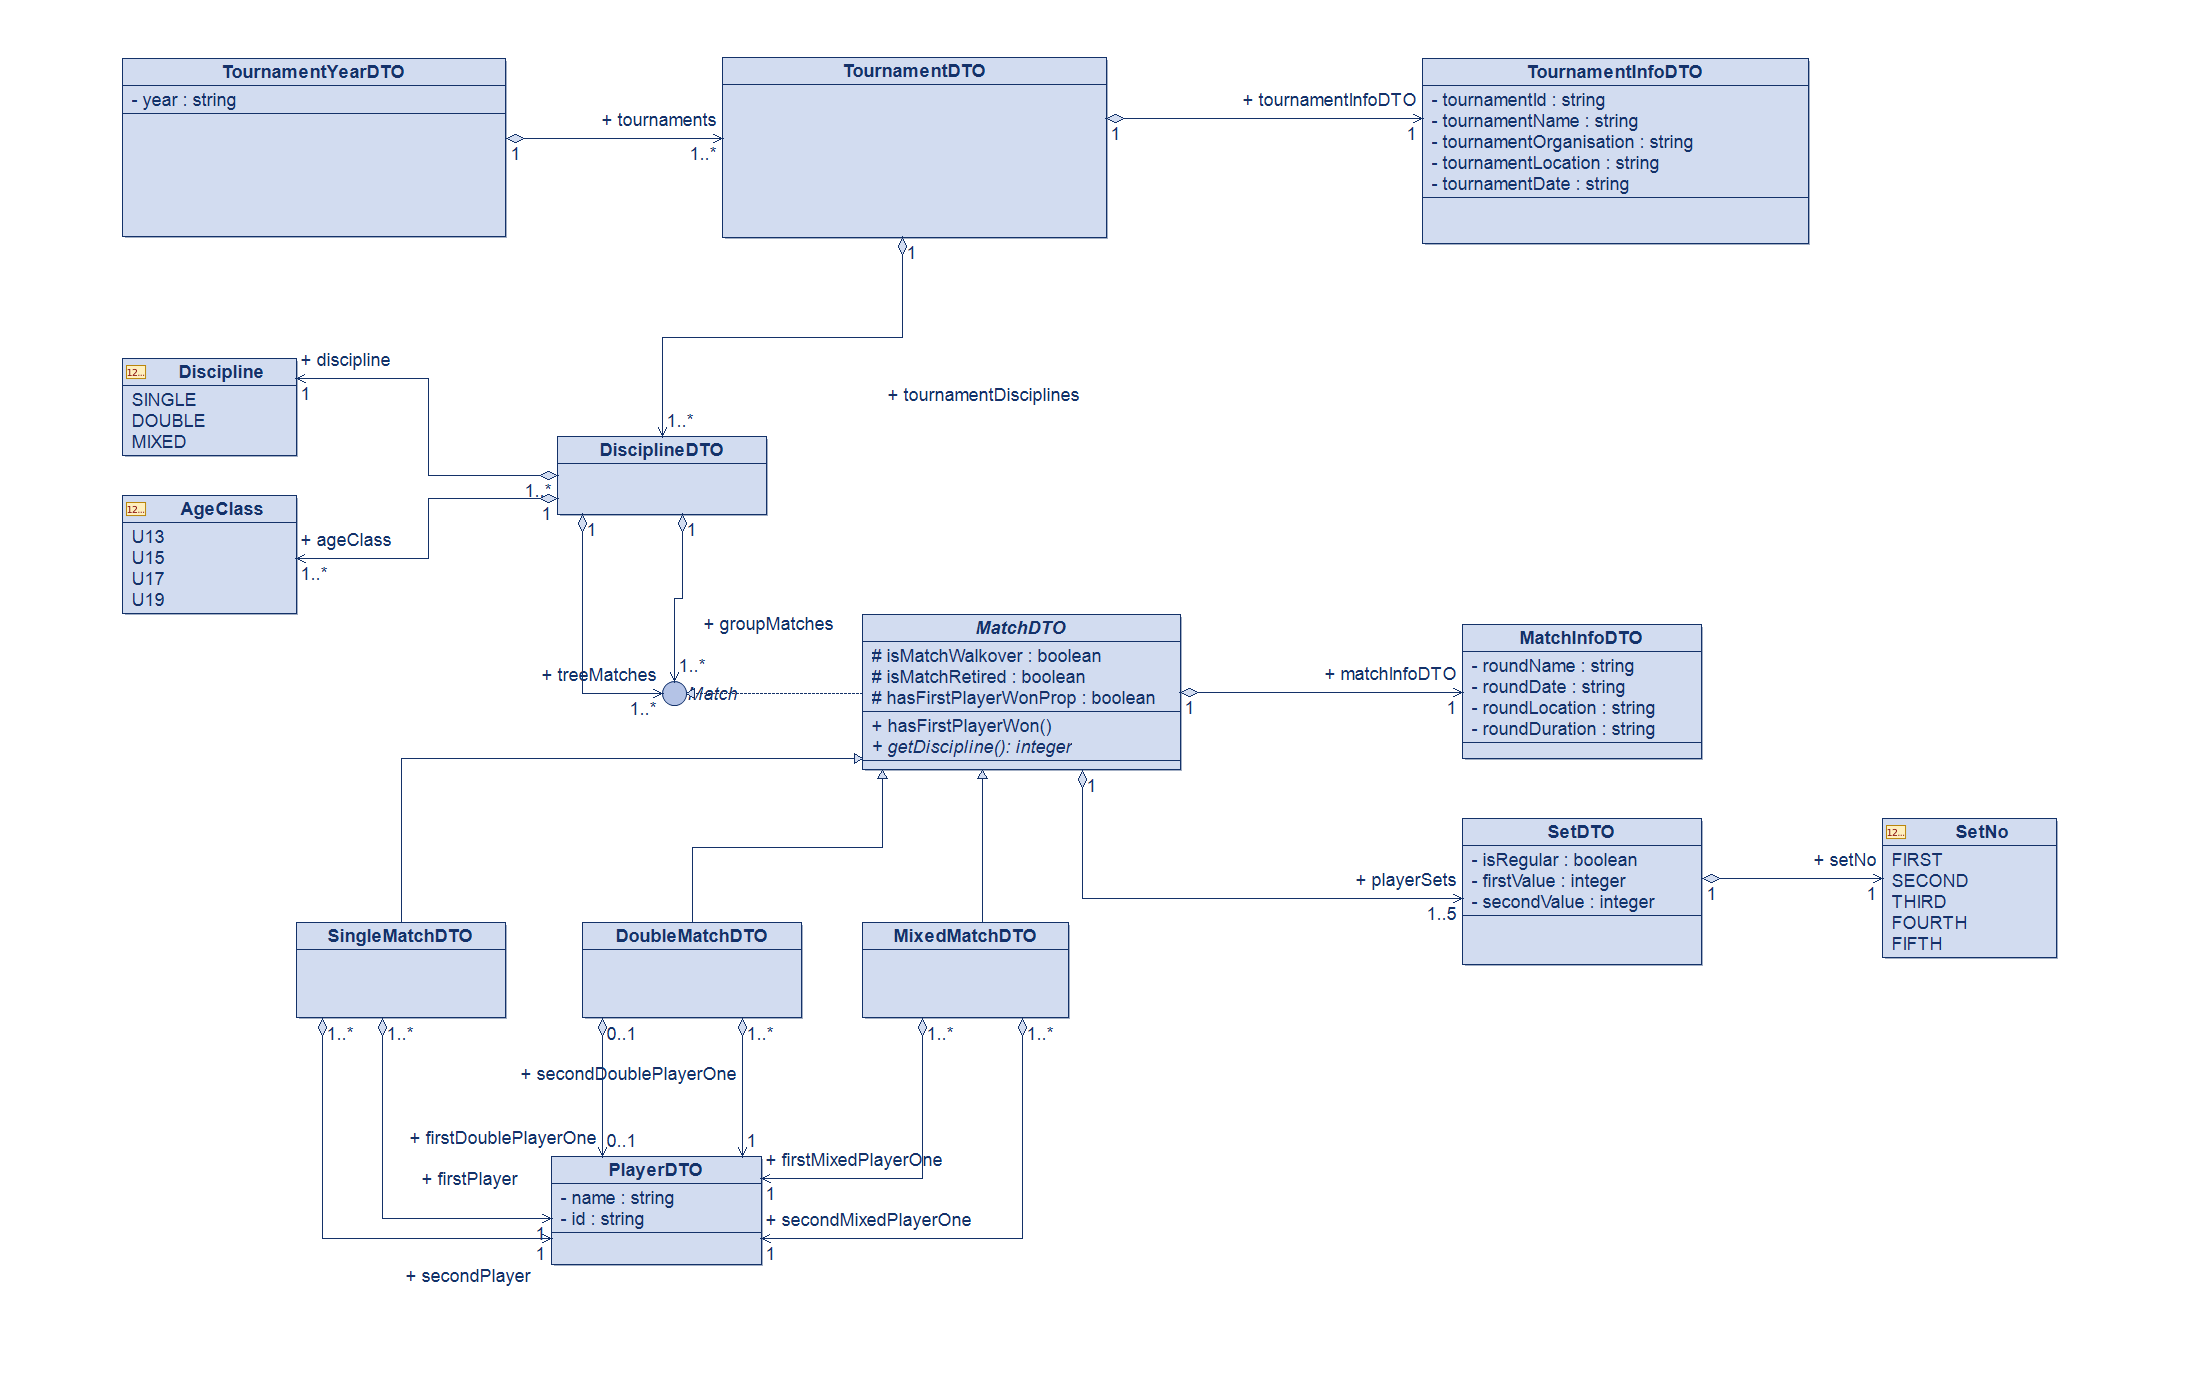
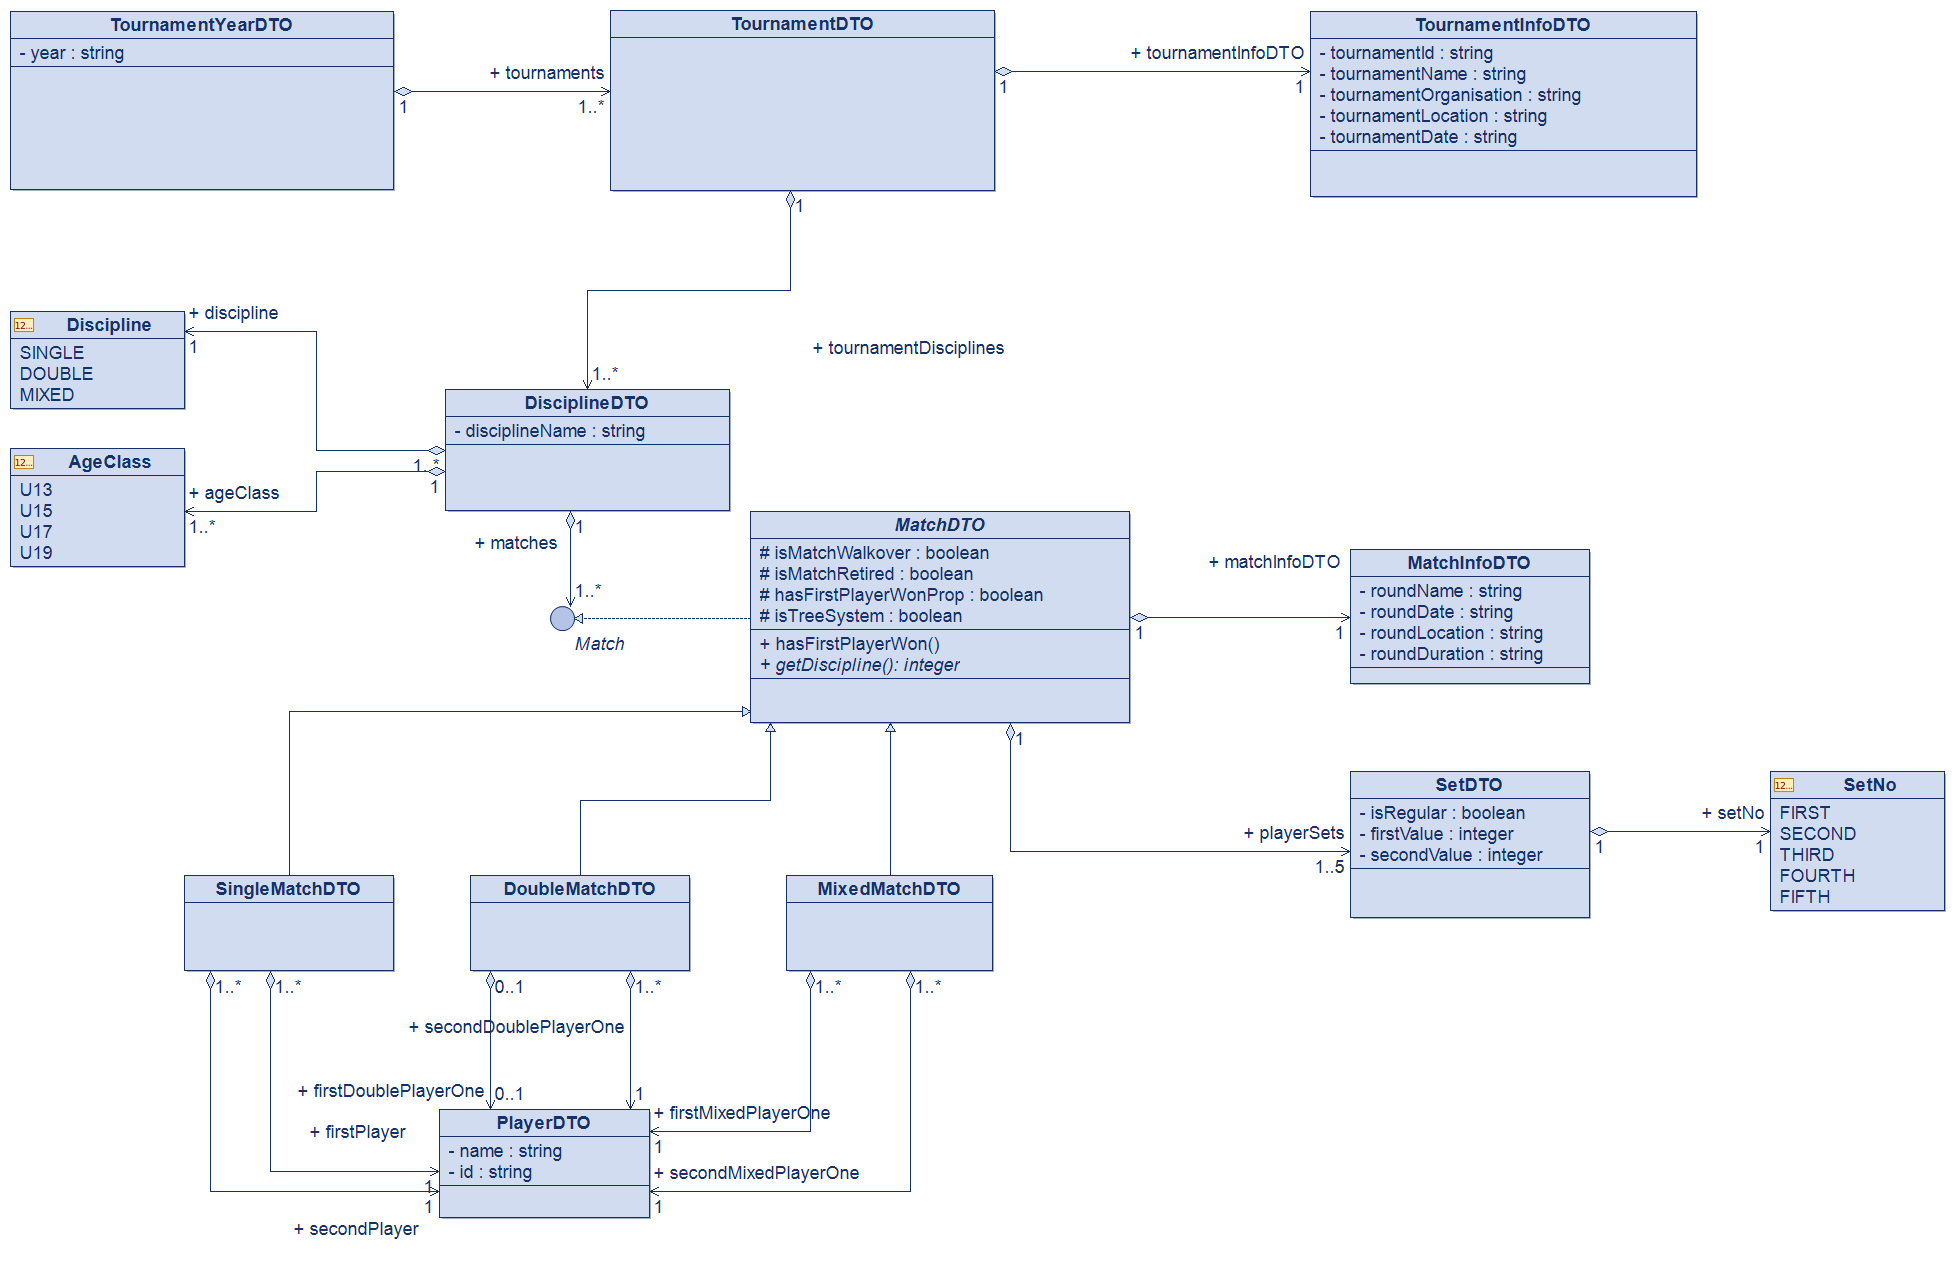
Remove unused Tournament-related DTOs and refactor Match models
Eliminated all Tournament-related DTOs and associated parsing logic to streamline the codebase. Consolidated match lists in DisciplineDTO into a single structure and added a new property `isTreeSystem` to MatchDTO. These changes aim to simplify data models and improve maintainability.

diff --git a/src/main/java/de/ostfale/qk/parser/tournament/internal/TournamentParserService.java b/src/main/java/de/ostfale/qk/parser/tournament/internal/TournamentParserService.java
@@ -4,15 +4,15 @@ import de.ostfale.qk.parser.HtmlParser;
 import de.ostfale.qk.parser.discipline.api.DisciplineParser;
 import de.ostfale.qk.parser.discipline.internal.model.DisciplineDTO;
 import de.ostfale.qk.parser.tournament.api.TournamentParser;
-import de.ostfale.qk.parser.tournament.internal.model.*;
+import de.ostfale.qk.parser.tournament.internal.model.TournamentDTO;
+import de.ostfale.qk.parser.tournament.internal.model.TournamentInfoDTO;
+import de.ostfale.qk.parser.tournament.internal.model.TournamentYearDTO;
 import jakarta.inject.Inject;
 import jakarta.inject.Singleton;
-import org.htmlunit.html.HtmlDivision;
 import org.htmlunit.html.HtmlElement;
 import org.slf4j.Logger;
 import org.slf4j.LoggerFactory;
 
-import java.util.ArrayList;
 import java.util.List;
 
 @Singleton
@@ -25,15 +25,6 @@ public class TournamentParserService implements TournamentParser {
     DisciplineParser disciplineParser;
 
     private static final Logger log = LoggerFactory.getLogger(TournamentParserService.class);
-
-    final String TOURNAMENT_DISCIPLINES = "//div[contains(@class, 'module module--card')]";
-    final String TOURNAMENT_DISCIPLINE_INFO = "//h5[contains(@class, 'module-divider')]";
-    final String TOURNAMENT_MATCH_GROUP = ".//li[contains(@class, 'match-group__item')]";
-
-    final String MATCH_ROUND_NAME = ".//li[contains(@class, 'match__header-title-item')]";
-    final String MATCH_ROUND_LOCATION_DATE = ".//li[contains(@class, 'match__footer-list-item')]";
-    final String MATCH_ROUND_DURATION = ".//div[contains(@class, 'match__header-aside')]";
-
 
     @Override
     public TournamentYearDTO parseTournamentYear(String year, HtmlElement content) {
@@ -69,54 +60,4 @@ public class TournamentParserService implements TournamentParser {
         var tournamentDate = tournamentDateElement.asNormalizedText();
         return new TournamentInfoDTO(tournamentId, tournamentName, tournamentOrganisation, tournamentLocation, tournamentDate);
     }
-
-
-    final String MATCH_ROUND_PLAYER = "//div[contains(@class, 'match__body')]";
-    final String MATCH_ROUND_PLAYER_WON = ".//div[contains(@class, 'match__row has-won')]";
-    final String MATCH_ROUND_PLAYER_LOST = "//div[contains(@class, 'match__row')]";
-    final String MATCH_PLAYER_INFO = "//span[contains(@class, 'match__row-title-value-content')]";
-
-    private TournamentMatchInfoDTO getTournamentMatchInfo(HtmlElement matchGroup) {
-        HtmlElement matchRoundNameDiv = matchGroup.getFirstByXPath(MATCH_ROUND_NAME);
-        HtmlElement matchRoundDurationDiv = matchGroup.getFirstByXPath(MATCH_ROUND_DURATION);
-        List<HtmlElement> matchRoundDateLocDiv = matchGroup.getByXPath(MATCH_ROUND_LOCATION_DATE);
-
-        var matchRoundName = matchRoundNameDiv != null ? matchRoundNameDiv.asNormalizedText() : "";
-        var matchRoundDate = matchRoundDateLocDiv.getFirst() != null ? matchRoundDateLocDiv.getFirst().asNormalizedText() : "";
-        var matchRoundCourt = matchRoundDateLocDiv.getLast() != null ? matchRoundDateLocDiv.getLast().asNormalizedText() : "";
-        var matchRoundDuration = matchRoundDurationDiv != null ? matchRoundDurationDiv.asNormalizedText() : "";
-        var matchInfo = new TournamentMatchInfoDTO(matchRoundName, matchRoundDate, matchRoundCourt, matchRoundDuration);
-        log.debug("Tournament match info: {}", matchInfo);
-        return matchInfo;
-    }
-
-    private TournamentDisciplineDTO getTournamentDisciplineInfoDTO(HtmlElement headerElement) {
-        String[] disciplineAge = headerElement.asNormalizedText().split(" ");
-        var disciplineName = disciplineAge[1];
-        var disciplineAgeGroup = disciplineAge[2];
-        var disciplineInfo = new TournamentDisciplineDTO(disciplineName, disciplineAgeGroup);
-        log.debug("Tournament discipline info: {}", disciplineInfo);
-        return disciplineInfo;
-    }
-
-
-   /* private List<TournamentMatchDTO> getTournamentMatchDTO(HtmlElement matchElement) {
-        List<TournamentMatchDTO> allMatchResults = new ArrayList<>();
-
-        List<HtmlDivision> allMatches = matchElement.getByXPath(MATCH_ROUND_PLAYER);
-        allMatches.forEach(match -> {
-            HtmlElement matchWon = match.getFirstByXPath(MATCH_ROUND_PLAYER_WON);
-            String playerWon = matchWon.asNormalizedText().split("\n")[0];
-            String[] matchInfo = match.asNormalizedText().split("\n");
-            String playerLost = playerWon.equalsIgnoreCase(matchInfo[0]) ? matchInfo[1] : matchInfo[0];
-            MatchPlayerDTO playerHasWon = new MatchPlayerDTO(playerWon, "");
-            MatchPlayerGroupDTO playerGroupWon = new MatchPlayerGroupDTO(playerHasWon, true);
-            MatchPlayerDTO playerHasLost = new MatchPlayerDTO(playerLost, "");
-            MatchPlayerGroupDTO playerGroupLost = new MatchPlayerGroupDTO(playerHasLost, false);
-
-            TournamentMatchDTO tournamentMatchDTO = new TournamentMatchDTO(playerGroupWon, playerGroupLost, List.of());
-            allMatchResults.add(tournamentMatchDTO);
-        });
-        return allMatchResults;
-    }*/
 }

diff --git a/src/main/java/de/ostfale/qk/parser/discipline/internal/model/DisciplineDTO.java b/src/main/java/de/ostfale/qk/parser/discipline/internal/model/DisciplineDTO.java
@@ -10,8 +10,7 @@ public class DisciplineDTO {
     private final String disciplineName;
     private final Discipline discipline;
     private final AgeClass ageClass;
-    private final List<Match> treeMatches = new ArrayList<>();
-    private final List<Match> groupMatches = new ArrayList<>();
+    private final List<Match> matches = new ArrayList<>();
 
     public DisciplineDTO(String disciplineName, Discipline discipline, AgeClass ageClass) {
         this.disciplineName = disciplineName;
@@ -26,11 +25,7 @@ public class DisciplineDTO {
     }
 
     public void addTreeMatch(Match match) {
-        this.treeMatches.add(match);
-    }
-
-    public void addGroupMatch(Match match) {
-        this.groupMatches.add(match);
+        this.matches.add(match);
     }
 
     public String getDisciplineName() {
@@ -45,11 +40,7 @@ public class DisciplineDTO {
         return ageClass;
     }
 
-    public List<Match> getTreeMatches() {
-        return treeMatches;
-    }
-
-    public List<Match> getGroupMatches() {
-        return groupMatches;
+    public List<Match> getMatches() {
+        return matches;
     }
 }

diff --git a/src/main/java/de/ostfale/qk/parser/match/internal/model/MatchDTO.java b/src/main/java/de/ostfale/qk/parser/match/internal/model/MatchDTO.java
@@ -20,6 +20,7 @@ abstract class MatchDTO implements Match {
     // no regular match
     protected Boolean isMatchWalkover = null;
     protected Boolean isMatchRetired = null;
+    protected Boolean isTreeSystem = Boolean.TRUE;
 
     protected Boolean hasFirstPlayerWonProp = null;
 

diff --git a/src/main/java/de/ostfale/qk/parser/match/internal/model/MatchInfoDTO.java b/src/main/java/de/ostfale/qk/parser/match/internal/model/MatchInfoDTO.java
@@ -1,7 +1,5 @@
 package de.ostfale.qk.parser.match.internal.model;
 
-import de.ostfale.qk.parser.tournament.internal.model.TournamentMatchDTO;
-
 public class MatchInfoDTO {
     private String roundName;
     private String roundDate;
